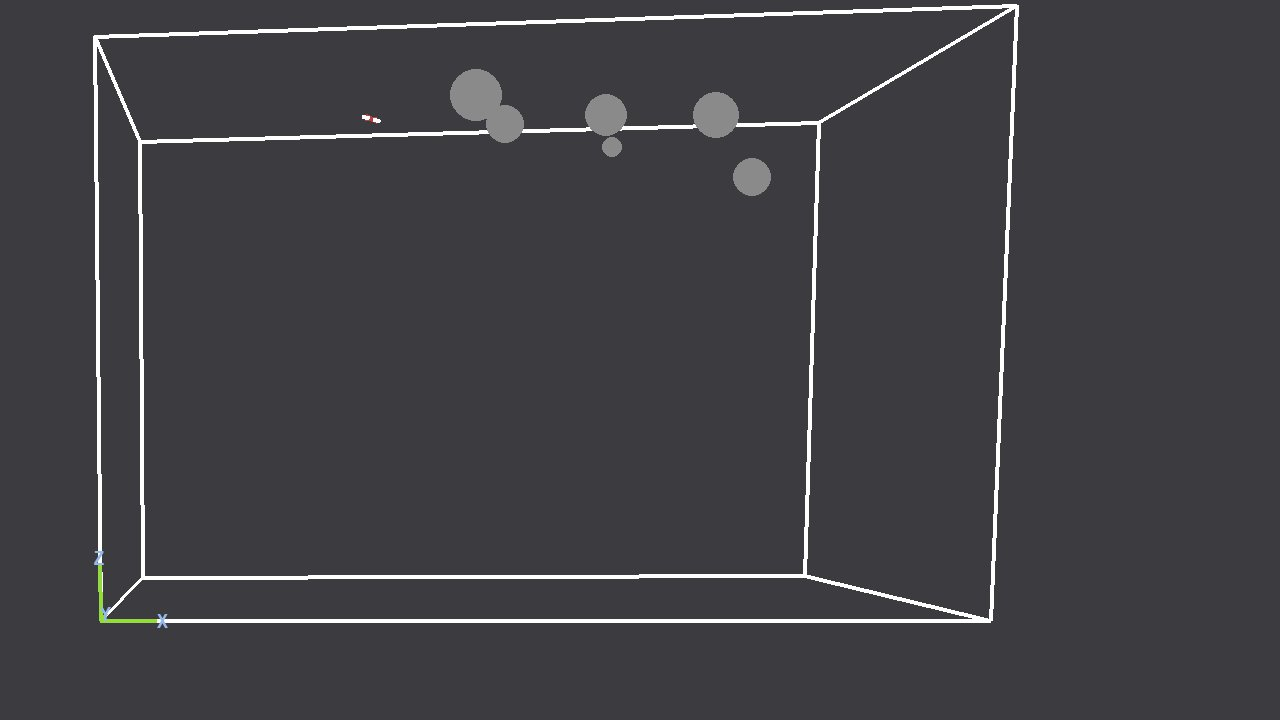
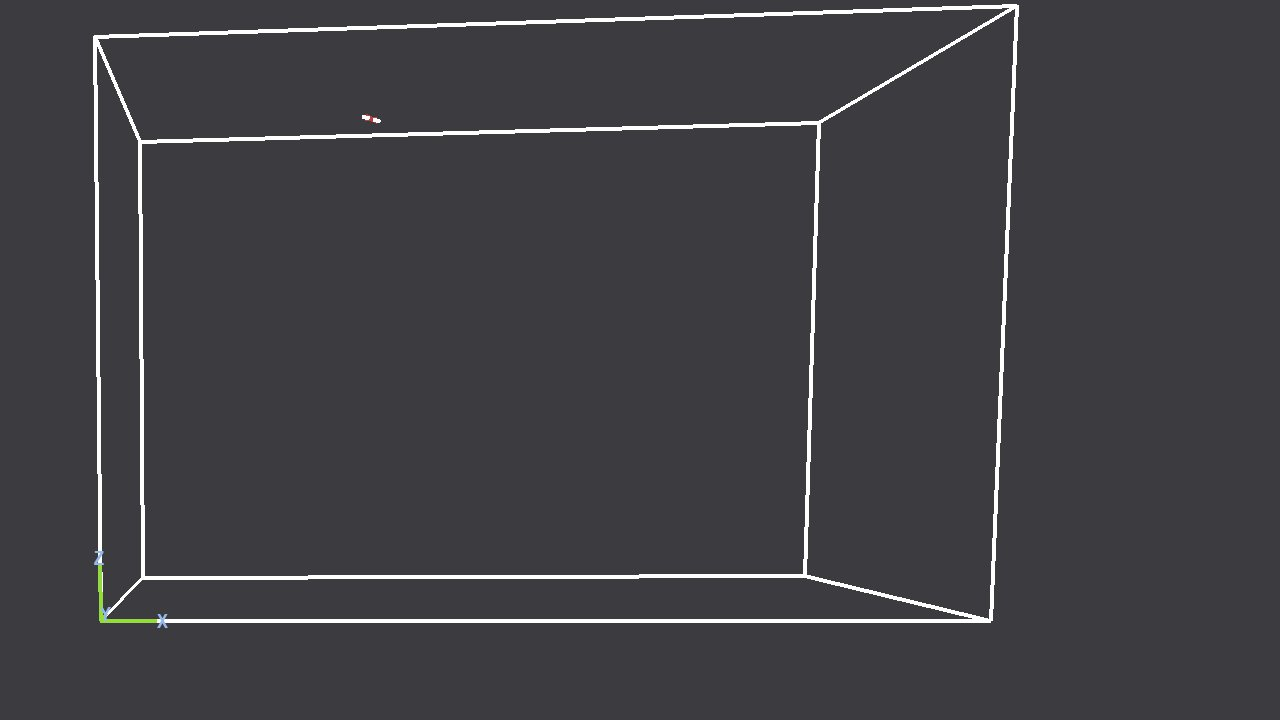
added cuboid back

diff --git a/simulation.py b/simulation.py
@@ -12,7 +12,7 @@ pg.init()
 
 from functions import rotation_matrix, projection, depth_scale, pressed_keys, colors, make_video
 from model import Drone
-from obstacles import Meteorite, Cuboid
+from obstacles import Meteorite, CuboidObstacle, Cuboid
 from visuals import display_explosion
 import solver
 
@@ -102,21 +102,21 @@ while running:
     scr.blit(z_axis_text,z_axis_text.get_rect(center = projection([0,0,1.1],view_angles,origin,scale)))
 
     #---------------- meteorites ------------------------
-    while meteorite_counter < int(loop_number*dt*meteorite_frequency):
-        meteorite_counter += 1
-        meteorites.append(Meteorite([rd.uniform(0, bbox.dimensions[0]), rd.uniform(0, bbox.dimensions[1]), bbox.dimensions[2]],
-                                    [0, 0, rd.uniform(1.,2.)], 
-                                     rd.uniform(0.2,0.5)))
+    #while meteorite_counter < int(loop_number*dt*meteorite_frequency):
+    #    meteorite_counter += 1
+    #    meteorites.append(Meteorite([rd.uniform(0, bbox.dimensions[0]), rd.uniform(0, bbox.dimensions[1]), bbox.dimensions[2]],
+    #                                [0, 0, rd.uniform(1.,2.)], 
+    #                                 rd.uniform(0.2,0.5)))
         
-    for i,m in enumerate(meteorites):
-        meteorites[i].update_position(dt)
-        if m.pos[2] < 0: meteorites.pop(i)
+    #for i,m in enumerate(meteorites):
+    #    meteorites[i].update_position(dt)
+    #    if m.pos[2] < 0: meteorites.pop(i)
 
-    # display
-    [m.display(scr, colors, view_angles, origin, scale) for m in meteorites]
+    ## display
+    #[m.display(scr, colors, view_angles, origin, scale) for m in meteorites]
 
     #---------------- drone ---------------------  
-    u, x = solver.mpc(quad, quad.state, x_target)
+    u, x = solver.mpc(quad, quad.state, x_target, [], [])
     quad.update_state(u, model='non-linear')
 
     # display

diff --git a/obstacles.py b/obstacles.py
@@ -124,3 +124,25 @@ class CuboidObstacle:
     # def display(self, scr, colors, view_angles, origin, scale):
     #     screen_pos = projection(self.pos, view_angles, origin, scale)
     #     pg.draw.circle(scr, colors.grey, screen_pos, self.size * scale * depth_scale(self.pos, view_angles, scale))
+
+
+
+
+class Cuboid:
+    # this part sets all the points x,y,x co-cords at the correct locations
+    #  _____   7____6
+    # |\____\  4____5
+    # |z|    | 3____2
+    # y\|____| 0____1
+    #     x
+    def __init__(self, dimensions):  # vertices must be numpy array
+        self.dimensions = dimensions
+        self.vertices = np.array(
+            [[0, 0, 0], [1, 0, 0], [1, 1, 0], [0, 1, 0], [0, 0, 1], [1, 0, 1], [1, 1, 1], [0, 1, 1]]) * self.dimensions
+        self.edges = ((0, 1), (1, 2), (2, 3), (3, 0), (4, 5), (5, 6), (6, 7), (7, 4), (0, 4), (1, 5), (2, 6), (3, 7))
+
+    def display(self, scr, colors, view_angles, origin, scale):
+        for edge in self.edges:
+            pg.draw.line(scr, colors.white,
+                            projection(self.vertices[edge[0]], view_angles, origin, scale),
+                            projection(self.vertices[edge[1]], view_angles, origin, scale), 4)

diff --git a/model.py b/model.py
@@ -190,19 +190,3 @@ static_obstacles = [
     CuboidObstacle(position=[1.5, 0, 0], dimensions=[1, 1, 2])
 ]
 
-for i in range(20):
-    print('iteration', i)
-    u, x = solver.mpc(quad, quad.state, x_target, static_obstacles, moving_obstacles)
-    # print('u', u)
-    # print('x', x[0])
-    # print('y', x[1])
-    # print('z', x[2])
-
-    quad.update_state(u, model='non-linear')
-    print('quad state', quad.state[:3])
-    print('')
-    print('')
-
-    for moving in moving_obstacles:
-        moving.update_position(constants.dt)
-

diff --git a/solver.py b/solver.py
@@ -72,6 +72,6 @@ def mpc(quadrotor, x_current, x_target, obstacle_list, meteorites_list, horizon=
 
     # run solver
     problem = cp.Problem(cp.Minimize(cost), constraints)
-    problem.solve(solver=cp.CPLEX)
+    problem.solve(solver=cp.CPLEX, verbose=True)
 
     return u[:, 0].value, x[:, :].value
